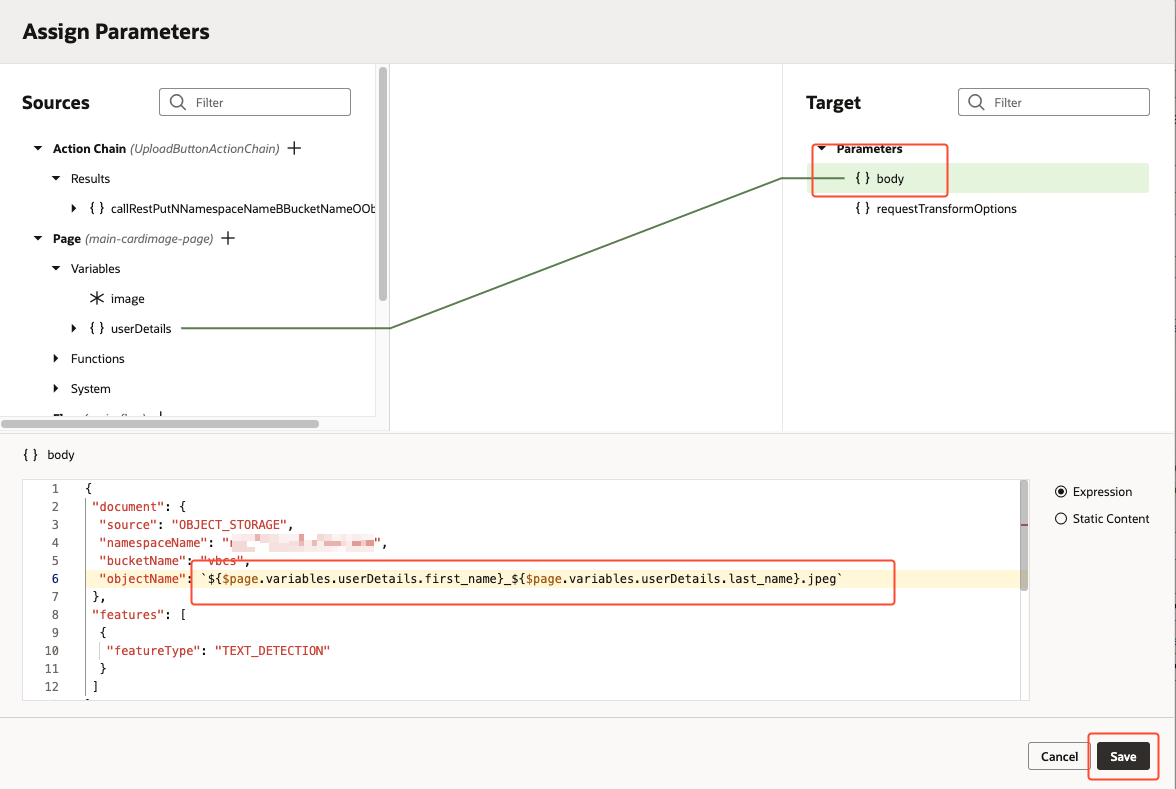
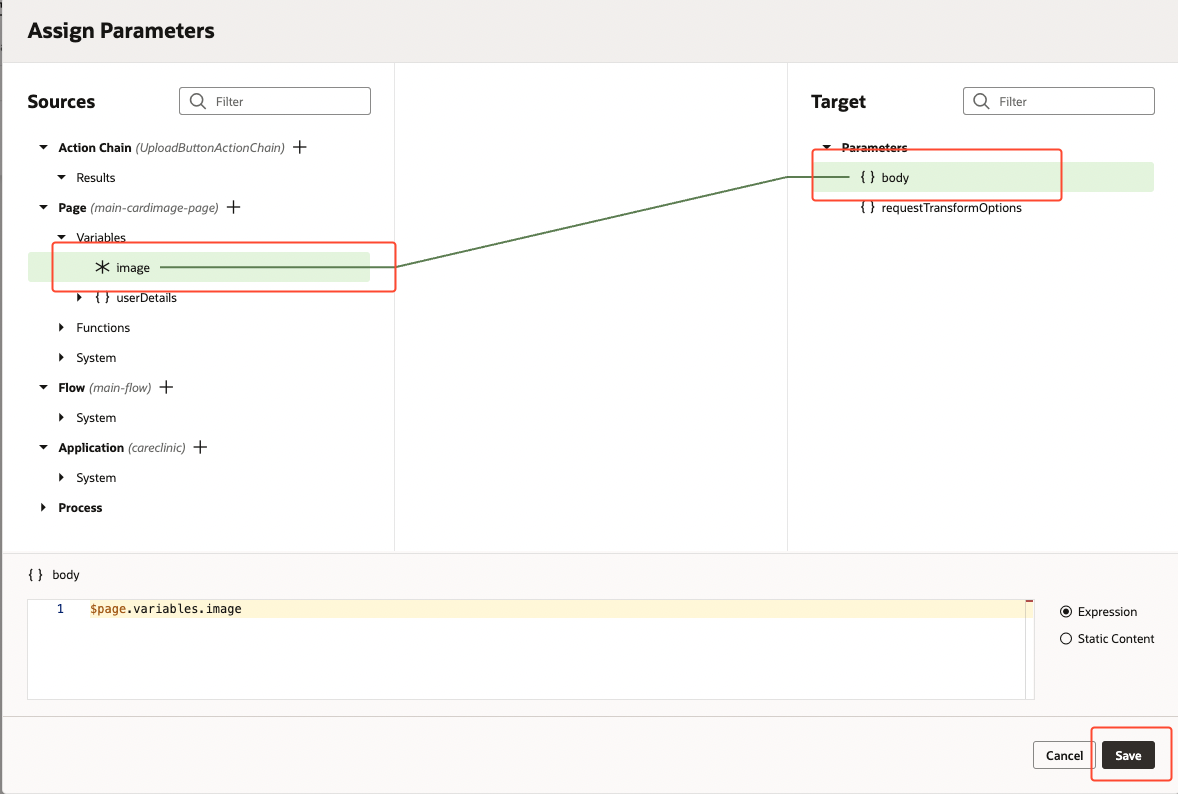
Update VBCS lab Task 3

diff --git a/applied-developer-course/lab6-visualbuildercloudservice/visualbuilder.md b/applied-developer-course/lab6-visualbuildercloudservice/visualbuilder.md
@@ -270,31 +270,62 @@ Note: callRestGetPatientId could be different for you if you changed the rest ca
 18. After the assign variable, drag and drop a "fire notification activity" and in the properties panel on the right update the details accordingly.  
     ![](images/task3/page-2/016.png " ")
 
-19. //TO-DO The whole upload action chain:
-    - upload to object storage
-    - call vision API
-    - Parse the response
-    - call DB API to create record in DB.
-    - navigate to main-success in case of success.
+19. Drag and drop button in canvas. Change Label and align center. Add class oj-sm-margin-2x-top
 
 ![](images/task3/page-2/017.png " ")
+
+20. Click on Events, and then click on New Event -> ojAction
+
 ![](images/task3/page-2/018.png " ")
-![](images/task3/page-2/019.png " ")
-![](images/task3/page-2/020.png " ")
-![](images/task3/page-2/021.png " ")
-![](images/task3/page-2/022.png " ")
-![](images/task3/page-2/023.png " ")
-![](images/task3/page-2/024.png " ")
-![](images/task3/page-2/025.png " ")
-![](images/task3/page-2/026.png " ")
-![](images/task3/page-2/027.png " ")
-![](images/task3/page-2/028.png " ")
-![](images/task3/page-2/029.png " ")
-![](images/task3/page-2/030.png " ")
-![](images/task3/page-2/031.png " ")
-![](images/task3/page-2/032.png " ")
-![](images/task3/page-2/033.png " ")
-![](images/task3/page-2/034.png " ")
+
+21. Drag and drop Call Rest in canvas and click on Select Endpoint in properties.
+    ![](images/task3/page-2/019.png " ")
+
+22. Select PUT endpoint for uploading image to Object Storage.
+    ![](images/task3/page-2/020.png " ")
+
+23. Enter Bucket Name, Namespace in target and for objectName we will use firstname_lastname.jpeg. Click Save
+    ![](images/task3/page-2/021.png " ")
+    ![](images/task3/page-2/026.png " ")
+
+24. Drag and drop Fire Notification, enter Summary and change display mode to Transient and Notification Type to confirmation
+    ![](images/task3/page-2/022.png " ")
+
+25. Drag and drop Call rest after Fire Notification. Select analyzeDocument API an dthen click on Body.
+    ![](images/task3/page-2/023.png " ")
+
+26. Paste the Body as follow, and replace fields like namespace and bucketname with yours. For objectName copy the syntax we used above for uploading image to Object Storage.
+    ![](images/task3/page-2/024.png " ")
+
+27. Drag and drop Call Function. Here we will write our own javascript function to parse the output we get after analyzing image.
+
+    ![](images/task3/page-2/028.png " ")
+
+    <!-- ![](images/task3/page-2/025.png " ") -->
+
+28. Click on JavaScript Tab and paste the following function inside PageModule class.
+
+    ![](images/task3/page-2/029.png " ")
+
+29. Go back to Actions. and then select the Function Name that we just added.
+
+    ![](images/task3/page-2/030.png " ")
+
+30. We need to pass the output from endpoint to function, click on Assign next to Input Parameters and expand results, look for Lines array and map it to arrOfLines in target
+
+    ![](images/task3/page-2/031.png " ")
+
+31. Add another Rest Call and select patient_insurance endpoint to update patient insurace details in DB.
+
+    ![](images/task3/page-2/032.png " ")
+
+32. Replace all the fields in body. Member id and Group Number we will get from our JS function and patient id is already there in variable. Contruct the URL for image URL
+
+    ![](images/task3/page-2/033.png " ")
+
+33. Add Navigate at the end in Success fork, and select the main-success page.
+
+    ![](images/task3/page-2/034.png " ")
 
 ### Page 3: main-success
 
